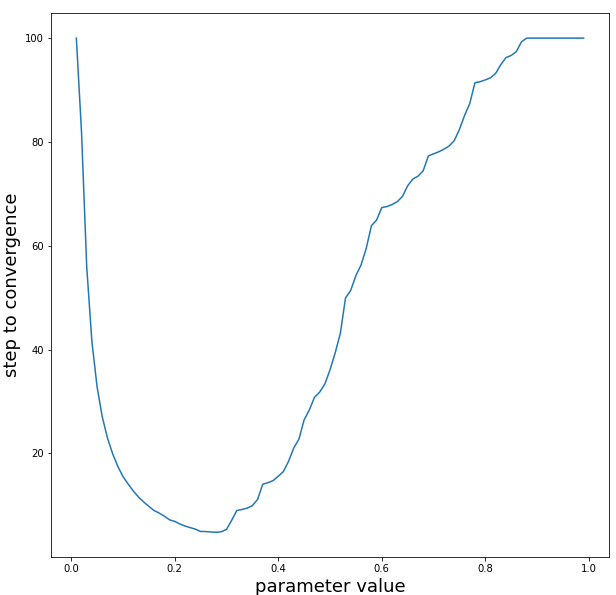
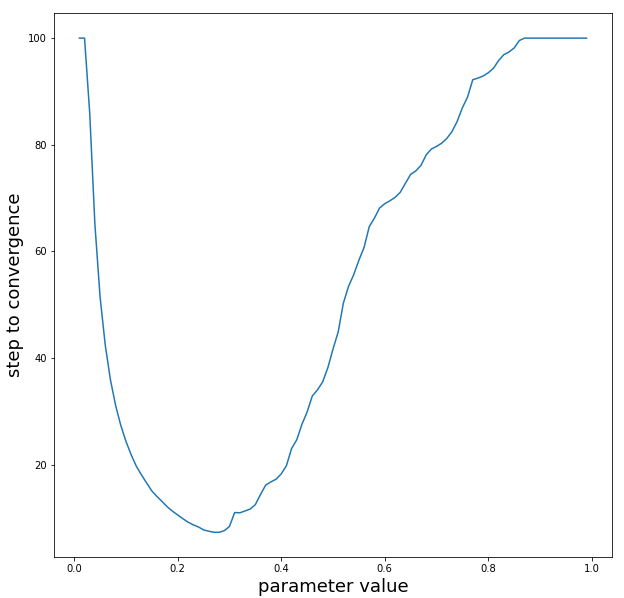
resolved typos in epsilon convergence

diff --git a/hyperbolicpoincareriemannianopt.py b/hyperbolicpoincareriemannianopt.py
@@ -278,7 +278,7 @@ class Hyperboloid(Manifold):
         Y = self._pack(Y)
         return self._squeeze(self.exp(X, self.log(X, Y), 1/2))
 
-"""# Derivative of the The Fréchet Mean"""
+"""# Derivative of the cost function"""
 
 # --- Poincare Gradiend
 def poincare_dist_grad(x, y):
@@ -822,19 +822,19 @@ def create_bunch_test_set(manifold, card_bunch=50, card_x=4):
 
   return bunch_test_set
 
-dim = 2
-PoincareManifold = PoincareBall(dim, 1)
-HyperboloidManifold = Hyperboloid(dim, 1)
-bunch = create_bunch_test_set(PoincareManifold, card_bunch=20, card_x=4)
-save_bunch_test_set(bunch)
-
-#dim, bunch = load_bunch_from_file()
+#dim = 2
 #PoincareManifold = PoincareBall(dim, 1)
 #HyperboloidManifold = Hyperboloid(dim, 1)
+#bunch = create_bunch_test_set(PoincareManifold, card_bunch=20, card_x=4)
+#save_bunch_test_set(bunch)
+
+dim, bunch = load_bunch_from_file()
+PoincareManifold = PoincareBall(dim, 1)
+HyperboloidManifold = Hyperboloid(dim, 1)
 
 """# Test Algorithms"""
 
-def time_to_converge(seq, limit, iter_test, epsilon=10e-4):
+def time_to_converge(seq, limit, iter_test, epsilon=1e-4):
   differences = []
   for s in seq:
     diff = s - limit
@@ -851,9 +851,9 @@ def test_algorithm(algotithm_poincare, algorithm_hyperboloid, bunch_test_set, it
   
   for (x_0, x_set, limit) in bunch_test_set:
     seq, _, _ = algotithm_poincare(x_0, x_set, iter_test)
-    a.append(time_to_converge(seq, limit, iter_test, 10e-6))
+    a.append(time_to_converge(seq, limit, iter_test, 1e-5))
     seq, _, _ = algorithm_hyperboloid(x_0, x_set, iter_test)
-    b.append(time_to_converge(seq, limit, iter_test, 10e-6))
+    b.append(time_to_converge(seq, limit, iter_test, 1e-5))
     
 
   mean_conv_a = sum(a)/len(bunch_test_set)
